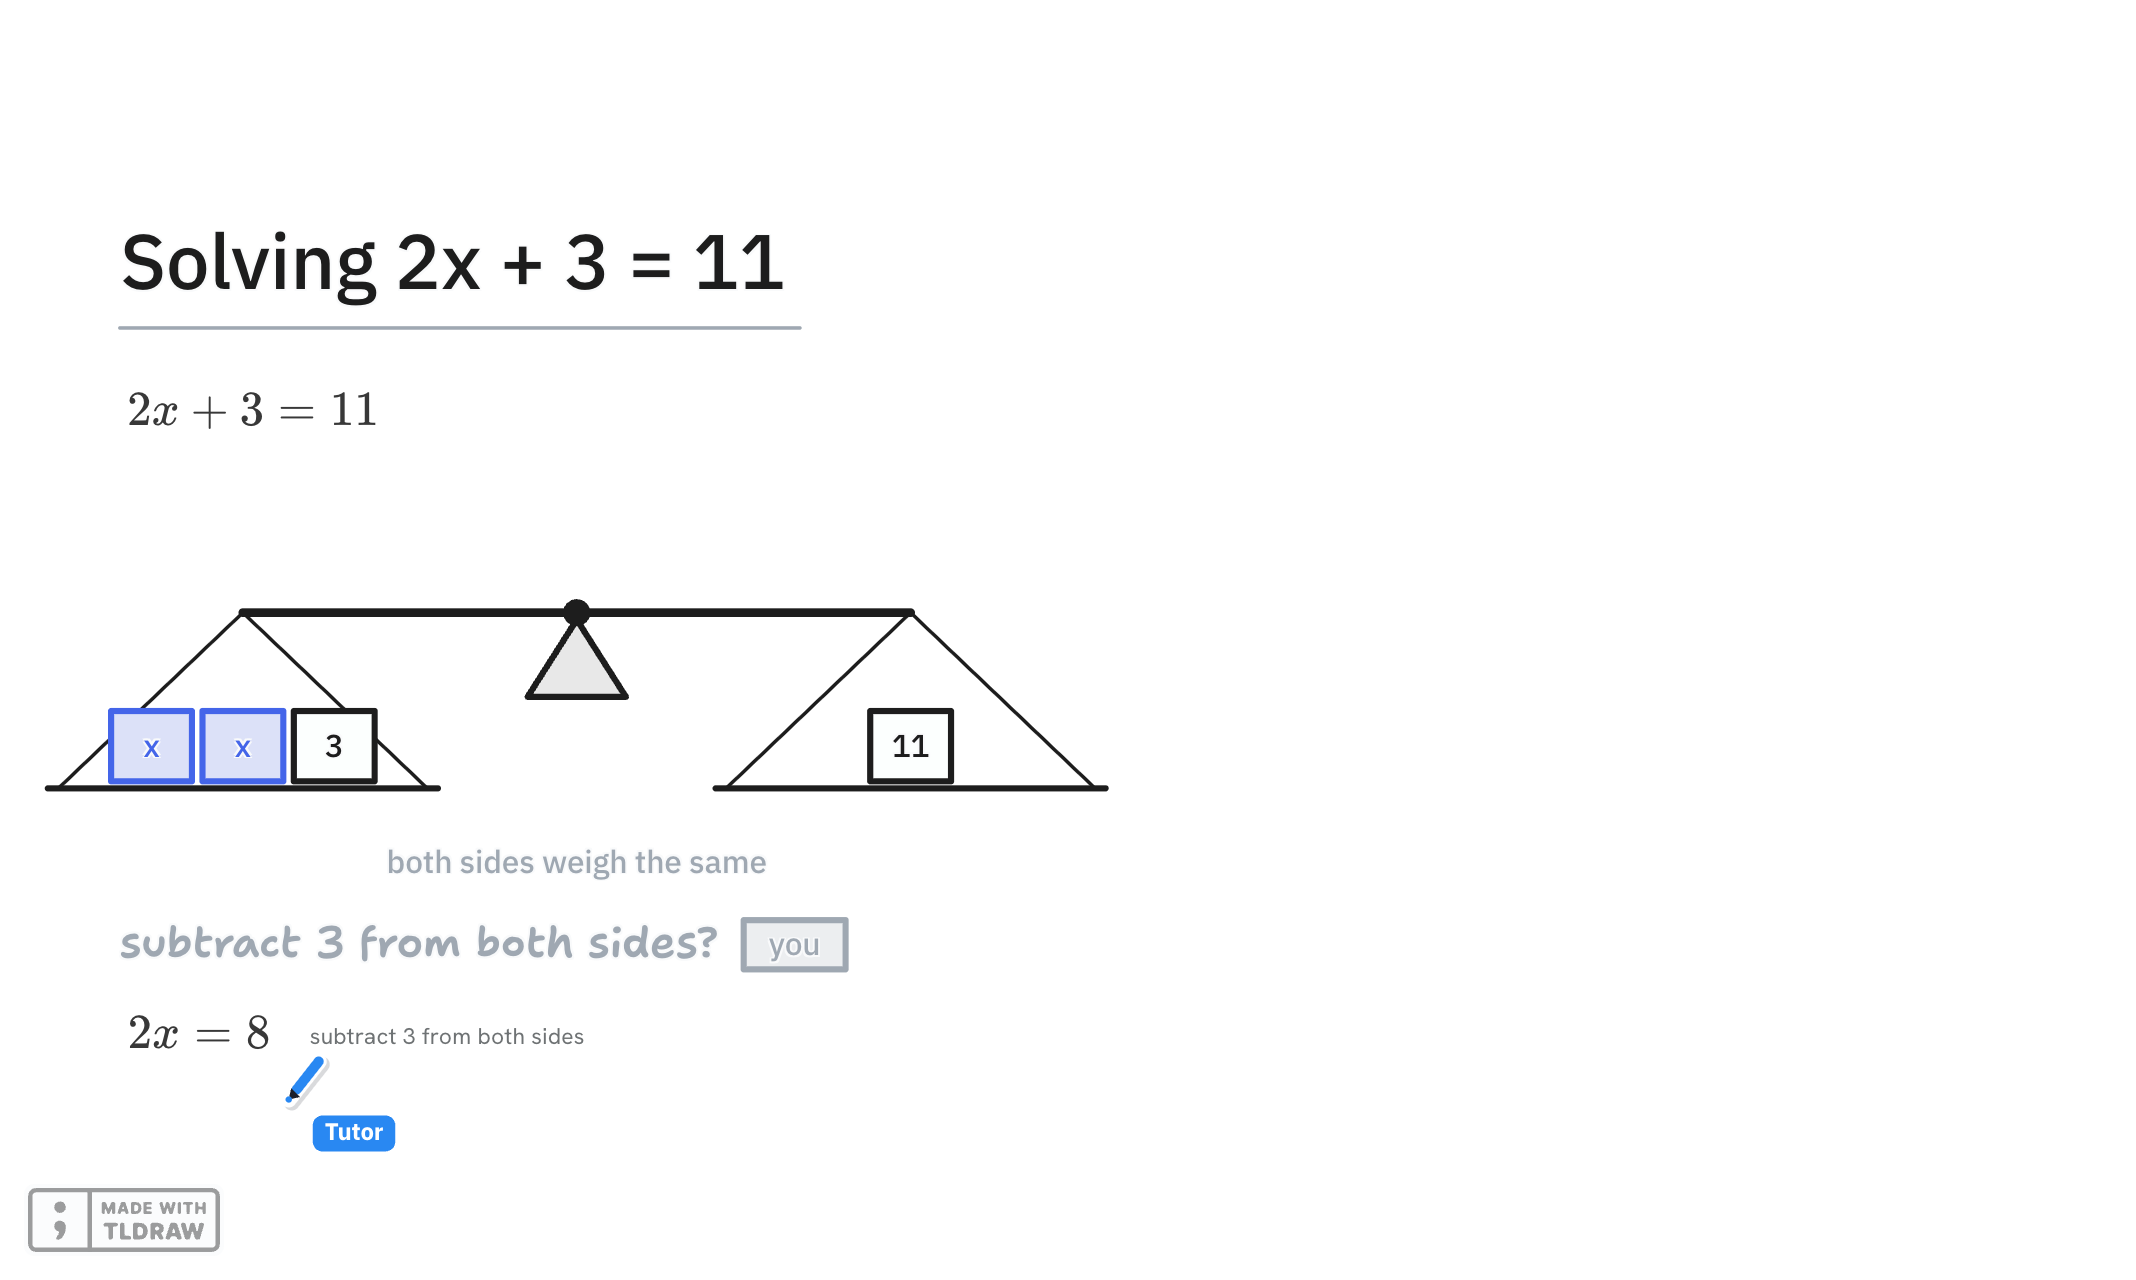
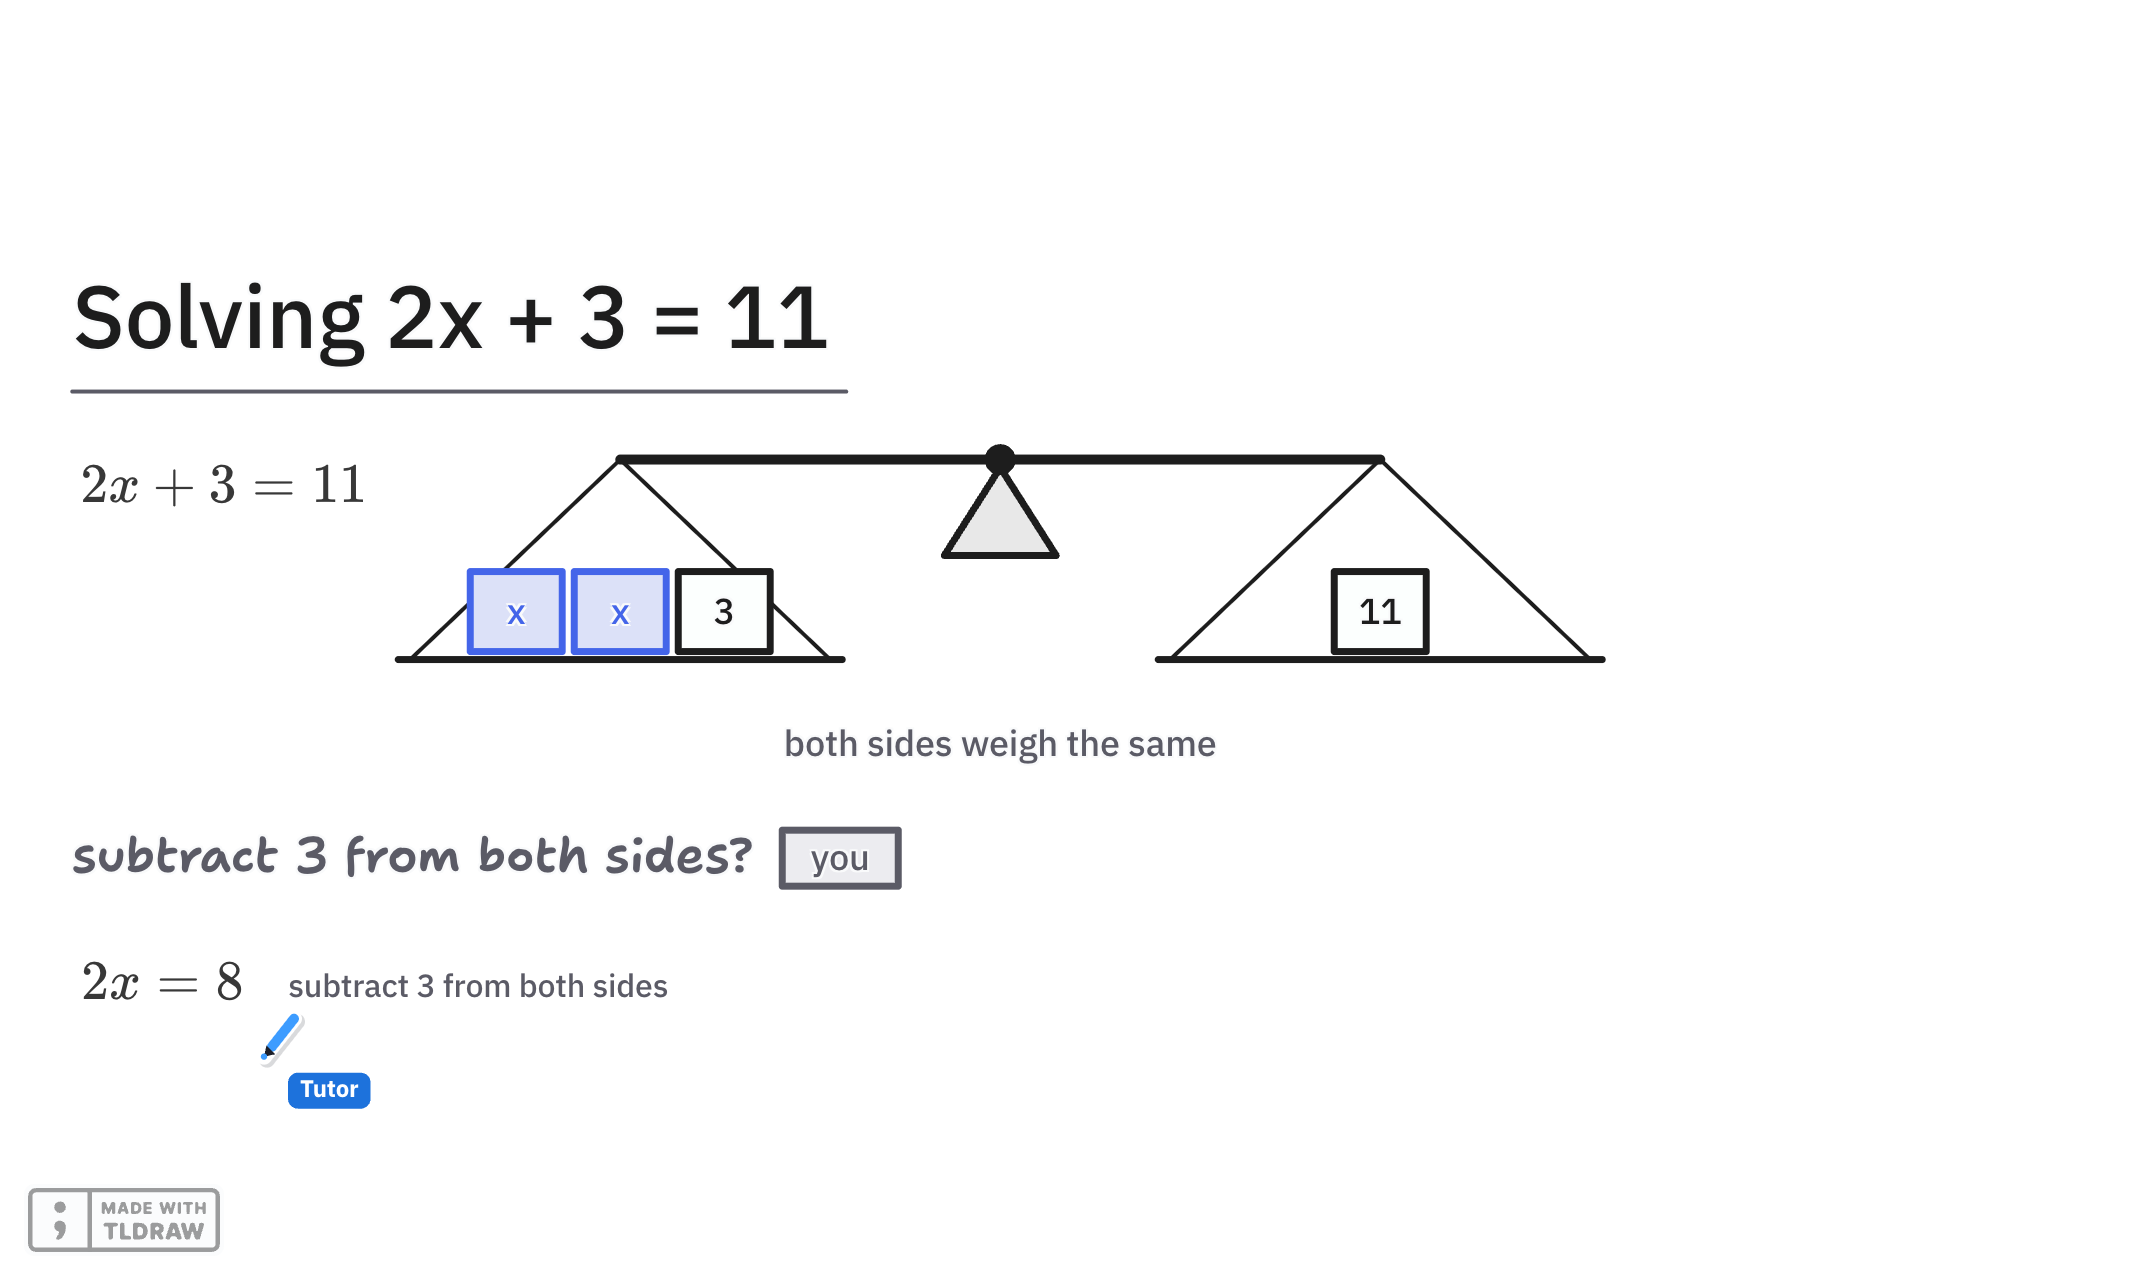
chore(landing): re-shoot the board photos in the sky pen
scripts/landing-shots.mjs after the board changes: sky cross-outs and
highlights, darker pencil for student attempts, larger annotations. The
keys are unchanged; three photos changed size.

diff --git a/components/landing/shots.generated.ts b/components/landing/shots.generated.ts
@@ -1,7 +1,7 @@
 // Generated by scripts/landing-shots.mjs. Do not edit; rerun the script.
 export const SHOTS = {
-  steps: { src: "/landing/steps.png", width: 877, height: 683 },
-  hint: { src: "/landing/hint.png", width: 628, height: 478 },
-  worksheet: { src: "/landing/worksheet.png", width: 654, height: 440 },
+  steps: { src: "/landing/steps.png", width: 873, height: 614 },
+  hint: { src: "/landing/hint.png", width: 695, height: 515 },
+  worksheet: { src: "/landing/worksheet.png", width: 705, height: 440 },
   hero: { src: "/landing/session-board.png", width: 2136, height: 1280 },
 } as const;
